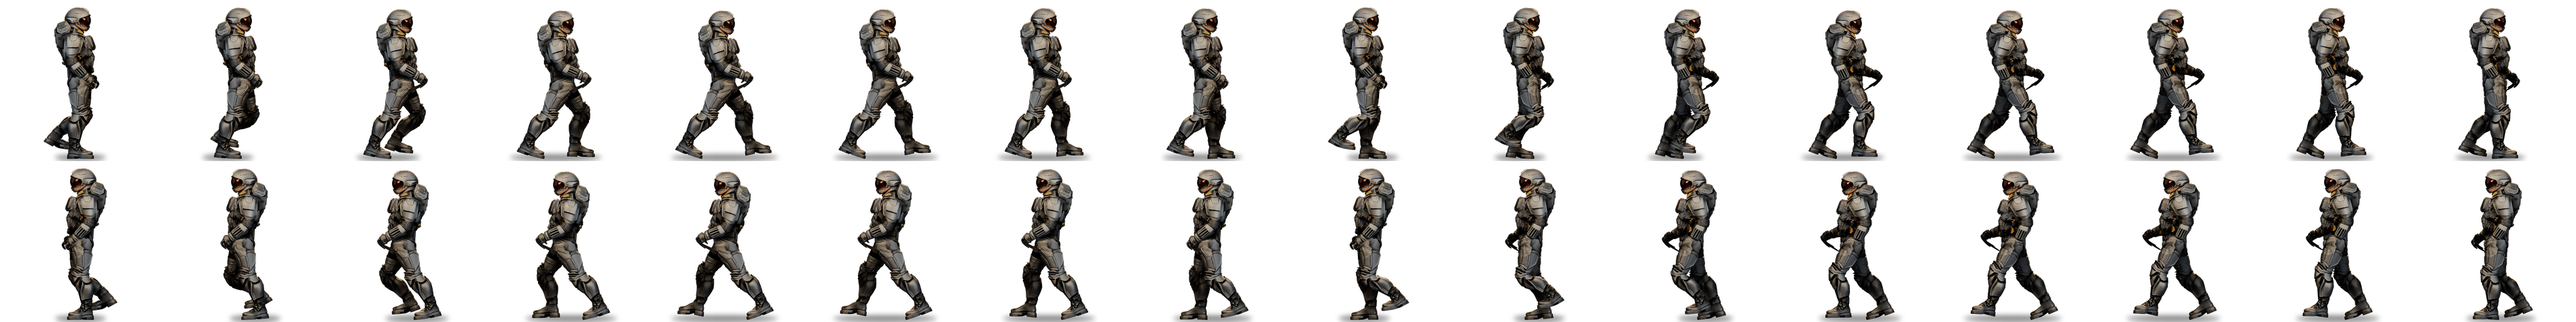
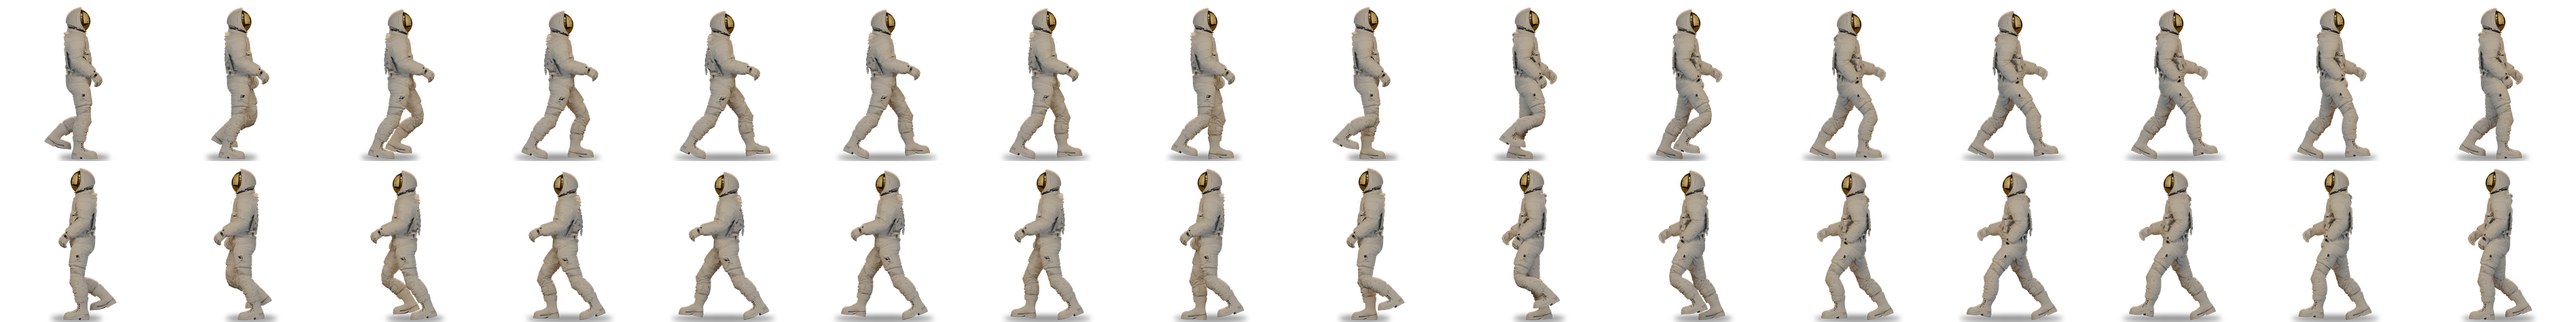
Starport: captain in a white pressure suit, no backpack
The captain now wears a plain white NASA-like pressure suit (no logos,
flags or patches) with a gold visor, in place of the armoured suit. The
front view is FLUX, the 3D model TRELLIS.2 as before. TRELLIS invents a
life-support pack for astronauts, so the Blender script can now cut away
geometry behind the waist line and anything floating in front of the
chest, closing the back with suit fabric. Hand bones now reach the
fingertips and leg bones no longer take the hands, which stops the
fingers from stretching with the stride.

Claude-Session: https://claude.ai/code/session_01Meb45BUDAPbH3DCMFe2PhY

Changed region(s): [[0.0, 0.0295, 0.9958, 0.5021], [0.0, 0.5316, 0.9958, 1.0], [0.0622, 0.5316, 0.0934, 0.5612]]

diff --git a/tools/art/starport/captain3d/walk_blender.py b/tools/art/starport/captain3d/walk_blender.py
@@ -29,7 +29,70 @@ lo, hi = V.min(0), V.max(0)
 s = 1.8 / (hi[2] - lo[2])
 c = np.array([(lo[0] + hi[0]) / 2, (lo[1] + hi[1]) / 2, lo[2]])
 body.data.transform(Matrix.Diagonal((s, s, s, 1)) @ Matrix.Translation(Vector(-c)))
+"""Inserted into walk_blender.py after normalisation: remove a backpack (geometry behind the torso) and close the back.
+Character faces -Y, so the back is +Y."""
+import bmesh
+def cut_pack(body, H, margin=0.03):
+    me = body.data
+    bm = bmesh.new(); bm.from_mesh(me)
+    uvl = bm.loops.layers.uv.active
+    vs = np.array([v.co[:] for v in bm.verts])
+    waist = vs[(vs[:, 2] > 0.44 * H) & (vs[:, 2] < 0.50 * H) & (np.abs(vs[:, 0]) < 0.15)]
+    yb = np.percentile(waist[:, 1], 97) + margin
+    print('pack cut at y >', yb)
+    # a UV on the back of the waist, to texture the new back panel
+    best = None
+    for f in bm.faces:
+        c = f.calc_center_median()
+        if 0.46 * H < c.z < 0.50 * H and abs(c.x) < 0.06 and c.y > yb - margin - 0.03 and f.normal.y > 0.5:
+            best = f; break
+    uv0 = best.loops[0][uvl].uv.copy() if (best is not None and uvl) else None
+    kill = [v for v in bm.verts if v.co.y > yb and 0.50 * H < v.co.z < 0.92 * H and abs(v.co.x) < 0.36]
+    bmesh.ops.delete(bm, geom=kill, context='VERTS')
+    edges = [e for e in bm.edges if e.is_boundary]
+    before = set(bm.faces)
+    bmesh.ops.holes_fill(bm, edges=edges, sides=0)
+    new = [f for f in bm.faces if f not in before]
+    if new:
+        bmesh.ops.triangulate(bm, faces=new)
+        new = [f for f in bm.faces if f not in before]
+        for f in new:
+            f.normal_update()
+            if uv0 is not None:
+                for l in f.loops: l[uvl].uv = uv0
+    print('pack verts removed', len(kill), 'faces added', len(new))
+    bm.normal_update(); bm.to_mesh(me); bm.free(); me.update()
+
+
+def cut_floaters(body, H, frac=0.04):
+    """Remove disconnected mesh islands smaller than frac of the vertices, and anything well in front of the chest."""
+    me = body.data
+    bm = bmesh.new(); bm.from_mesh(me); bm.verts.ensure_lookup_table()
+    seen = set(); islands = []
+    for v in bm.verts:
+        if v.index in seen: continue
+        st = [v]; comp = []; seen.add(v.index)
+        while st:
+            x = st.pop(); comp.append(x)
+            for e in x.link_edges:
+                o = e.other_vert(x)
+                if o.index not in seen: seen.add(o.index); st.append(o)
+        islands.append(comp)
+    n = len(bm.verts); kill = []
+    vs = np.array([v.co[:] for v in bm.verts])
+    belly = vs[(vs[:, 2] > 0.52 * H) & (vs[:, 2] < 0.56 * H) & (np.abs(vs[:, 0]) < 0.12)]
+    yf = np.percentile(belly[:, 1], 3) - float(os.environ.get('FRONT_MARGIN', '0.05'))
+    ks = set(kill)
+    kill += [v for v in bm.verts if v not in ks and v.co.y < yf and 0.55 * H < v.co.z < 0.86 * H and abs(v.co.x) < 0.2]
+    print('islands', sorted(len(c) for c in islands)[-6:], 'front cut y <', yf, 'removed', len(kill))
+    bmesh.ops.delete(bm, geom=kill, context='VERTS')
+    bm.to_mesh(me); bm.free(); me.update()
+
 V = np.array([v.co[:] for v in body.data.vertices]); H = 1.8
+if os.environ.get('CUT_PACK') == '1':
+    cut_pack(body, H, float(os.environ.get('PACK_MARGIN', '0.03')))
+    cut_floaters(body, H)
+    V = np.array([v.co[:] for v in body.data.vertices])
 print('bounds', V.min(0), V.max(0), 'verts', len(V))
 
 def band(z0, z1):
@@ -67,7 +130,7 @@ for sd, nm in ((1, 'L'), (-1, 'R')):
     wrist = shp + (hp - shp) * 0.88; elbow = shp + (wrist - shp) * 0.5 + Vector((0, 0.015, 0))
     bone(f'upper_arm.{nm}', shp, elbow, 'spine')
     bone(f'forearm.{nm}', elbow, wrist, f'upper_arm.{nm}', True)
-    bone(f'hand.{nm}', wrist, hp + (hp - shp).normalized() * 0.04, f'forearm.{nm}', True)
+    bone(f'hand.{nm}', wrist, hp + (hp - shp).normalized() * 0.15, f'forearm.{nm}', True)
 segs = {b.name: (np.array(b.head[:]), np.array(b.tail[:])) for b in eb}
 bpy.ops.object.mode_set(mode='OBJECT')
 
@@ -79,10 +142,11 @@ for j, n in enumerate(names):
     t = np.clip(((V - a) @ ab) / (ab @ ab), 0, 1)
     D[:, j] = np.linalg.norm(V - (a + t[:, None] * ab), axis=1)
 x, z = V[:, 0], V[:, 2]
+nearhand = D[:, [names.index(k) for k in ('hand.L', 'hand.R', 'forearm.L', 'forearm.R')]].min(1)
 for j, n in enumerate(names):
     if n.endswith('.L'): D[x < -0.01, j] = 9
     if n.endswith('.R'): D[x > 0.01, j] = 9
-    if n.startswith(('thigh', 'shin', 'foot')): D[z > hipz + 0.04, j] = 9
+    if n.startswith(('thigh', 'shin', 'foot')): D[(z > hipz + 0.04) | (nearhand < 0.10), j] = 9
     if n.startswith(('upper_arm', 'forearm', 'hand')): D[np.abs(x) < shx * 0.75, j] = 9
 W = 1.0 / np.maximum(D, 1e-3) ** 6
 W[D > 8] = 0

diff --git a/tools/art/starport/captain3d/front.py b/tools/art/starport/captain3d/front.py
@@ -26,11 +26,12 @@ def txt2img(prompt, w, h, prefix, seed):
             i = h_[pid]['outputs']['8']['images'][0]
             return os.path.join(COMFY, 'output', i.get('subfolder', ''), i['filename'])
 
-P = ('full body 3D character render of a starship captain in a sci-fi spacesuit, standing in A-pose, arms slightly away from the body, '
+P = ('full body 3D character render of an astronaut in a plain all-white fabric pressure spacesuit, standing in A-pose, arms slightly away from the body, '
      'front view facing the camera, symmetrical, whole figure visible head to boots, '
-     'dark slate grey armoured spacesuit with lighter grey chest plate and segmented belt, round helmet with large amber tinted visor, '
-     'small backpack with glowing orange light tubes, black gloves, black boots, knee pads, '
-     'plain white background, soft studio lighting, game character model, no shadow')
+     'soft white woven fabric pressure suit with quilted layers, folds and creases, ribbed joints at elbows and knees, metal connector rings at the neck and wrists, '
+     'small chest control box, white gloves, white moon boots, round white helmet with gold reflective visor, '
+     'completely blank unmarked white fabric everywhere, clean unbranded suit, '
+     'plain light grey background, soft studio lighting, realistic, no shadow')
 if __name__ == '__main__':
-    for i, seed in enumerate([11, 23, 37, 51]):
-        shutil.copy(txt2img(P, 768, 1152, f'sf8_front_{i}', seed), rf'{OUT}\front_{i}.png'); print(i, flush=True)
+    for i, seed in enumerate([5, 13, 29, 61, 88, 101]):
+        shutil.copy(txt2img(P, 768, 1152, f'sf8_nasb_{i}', seed), rf'{OUT}\nasb_{i}.png'); print(i, flush=True)

diff --git a/tools/art/starport/captain3d/prep_cap.py b/tools/art/starport/captain3d/prep_cap.py
@@ -1,11 +1,22 @@
+"""Cut out the white-suit front view and erase the pack edges beside the helmet so image-to-3D builds no backpack."""
 from rembg import remove, new_session
-from PIL import Image
-im = Image.open(r'\\192.168.1.50\ai-workspace\starflight\step8\front_1.png').convert('RGB')
+from PIL import Image, ImageDraw
+import numpy as np
+im = Image.open(r'\\192.168.1.50\ai-workspace\starflight\step8\nasb_3.png').convert('RGB')
 out = remove(im, session=new_session('isnet-general-use'))
-bb = out.getchannel('A').point(lambda a: 255 if a > 16 else 0).getbbox()
+a = np.array(out)
+# helmet is a circle centred about (389, 172), radius ~ 82 incl. rim; the pack shows outside it above the shoulders
+yy, xx = np.mgrid[0:a.shape[0], 0:a.shape[1]]
+helmet = (xx - 389) ** 2 + (yy - 170) ** 2 <= 84 ** 2
+pack = (yy < 248) & (xx > 255) & (xx < 525) & ~helmet & (yy > 60)
+neck = (yy >= 225) & (yy < 252) & (xx > 318) & (xx < 462)          # keep the neck ring
+a[pack & ~neck, 3] = 0
+out = Image.fromarray(a)
+bb = out.getchannel('A').point(lambda v: 255 if v > 16 else 0).getbbox()
 out = out.crop(bb)
 s = max(out.size); c = Image.new('RGBA', (int(s * 1.1),) * 2, (0, 0, 0, 0))
 c.paste(out, ((c.width - out.width) // 2, (c.height - out.height) // 2), out)
 c = c.resize((1024, 1024), Image.LANCZOS)
-c.save(r'D:\AI\comfyui\ComfyUI\input\sf8_cap.png'); c.save(r'\\192.168.1.50\ai-workspace\starflight\step8\cap_rgba.png')
-print(c.size)
+c.save(r'D:\AI\comfyui\ComfyUI\input\sf8_nasa2.png')
+v = Image.new('RGBA', c.size, (60, 60, 70, 255)); v.alpha_composite(c); v.convert('RGB').save(r'\\192.168.1.50\ai-workspace\starflight\step8\nasa2_check.jpg', quality=90)
+print('ok')

diff --git a/tools/art/starport/captain3d/README.md b/tools/art/starport/captain3d/README.md
@@ -1,13 +1,23 @@
 # Captain walk: image-to-3D, auto-rig, Blender render
 
-1. front.py: FLUX front-view references of the captain (A-pose). Pick one.
-2. prep_cap.py: cut it out with rembg into ComfyUI/input/sf8_cap.png.
+The captain wears a plain white pressure suit (NASA-like, no logos, flags or
+patches) with a gold visor and no backpack.
+
+1. front.py: FLUX front-view references in A-pose. Do not put "NASA" in the
+   prompt: FLUX then adds logos and flags. Pick a clean one (nasb_3 was used).
+2. prep_cap.py: cut it out with rembg into ComfyUI/input/sf8_nasa2.png and erase
+   the pack edges that show beside the helmet.
 3. wf2api.py MeshWithTexturing.json trellis_overrides.json: runs the ComfyUI-Trellis2
    example workflow (TRELLIS.2 4B, sdpa/xformers) for a textured GLB.
 4. blender -b -P walk_blender.py -- <captain.glb> <out dir> walk 16 948
-   Normalises the mesh to 1.8 m, places a skeleton from mesh landmarks, skins it
-   by distance to bone segments, keys a 16-frame walk, keeps the feet on the
-   floor and renders an orthographic side view with the concourse lighting.
-   Env: ARM_DOWN=-20 KEY=320 ORTHO=1.06. "views" mode renders check views.
-5. install_walk.py <bin/data> <out dir>: light warm grade (0.86, 0.82, 0.75), contact shadow, mirrored
-   row, writes starport_avatar.png (+@2x, @4x).
+   Normalises the mesh to 1.8 m. With CUT_PACK=1 it removes any backpack TRELLIS
+   invents (geometry behind the waist line, PACK_MARGIN) and anything floating in
+   front of the chest (FRONT_MARGIN), closing the back with suit fabric. Places a
+   skeleton from mesh landmarks (hand bones reach the fingertips), skins by
+   distance to bone segments (legs never take the hands), keys a 16-frame walk,
+   keeps the feet on the floor and renders an orthographic side view with the
+   concourse lighting.
+   Used: CUT_PACK=1 PACK_MARGIN=0.012 FRONT_MARGIN=0.015 ARM_DOWN=-20 KEY=320.
+   "views" mode renders check views.
+5. install_walk.py <bin/data> <out dir>: light warm grade (0.86, 0.82, 0.75),
+   contact shadow, mirrored row, writes starport_avatar.png (+@2x, @4x).
